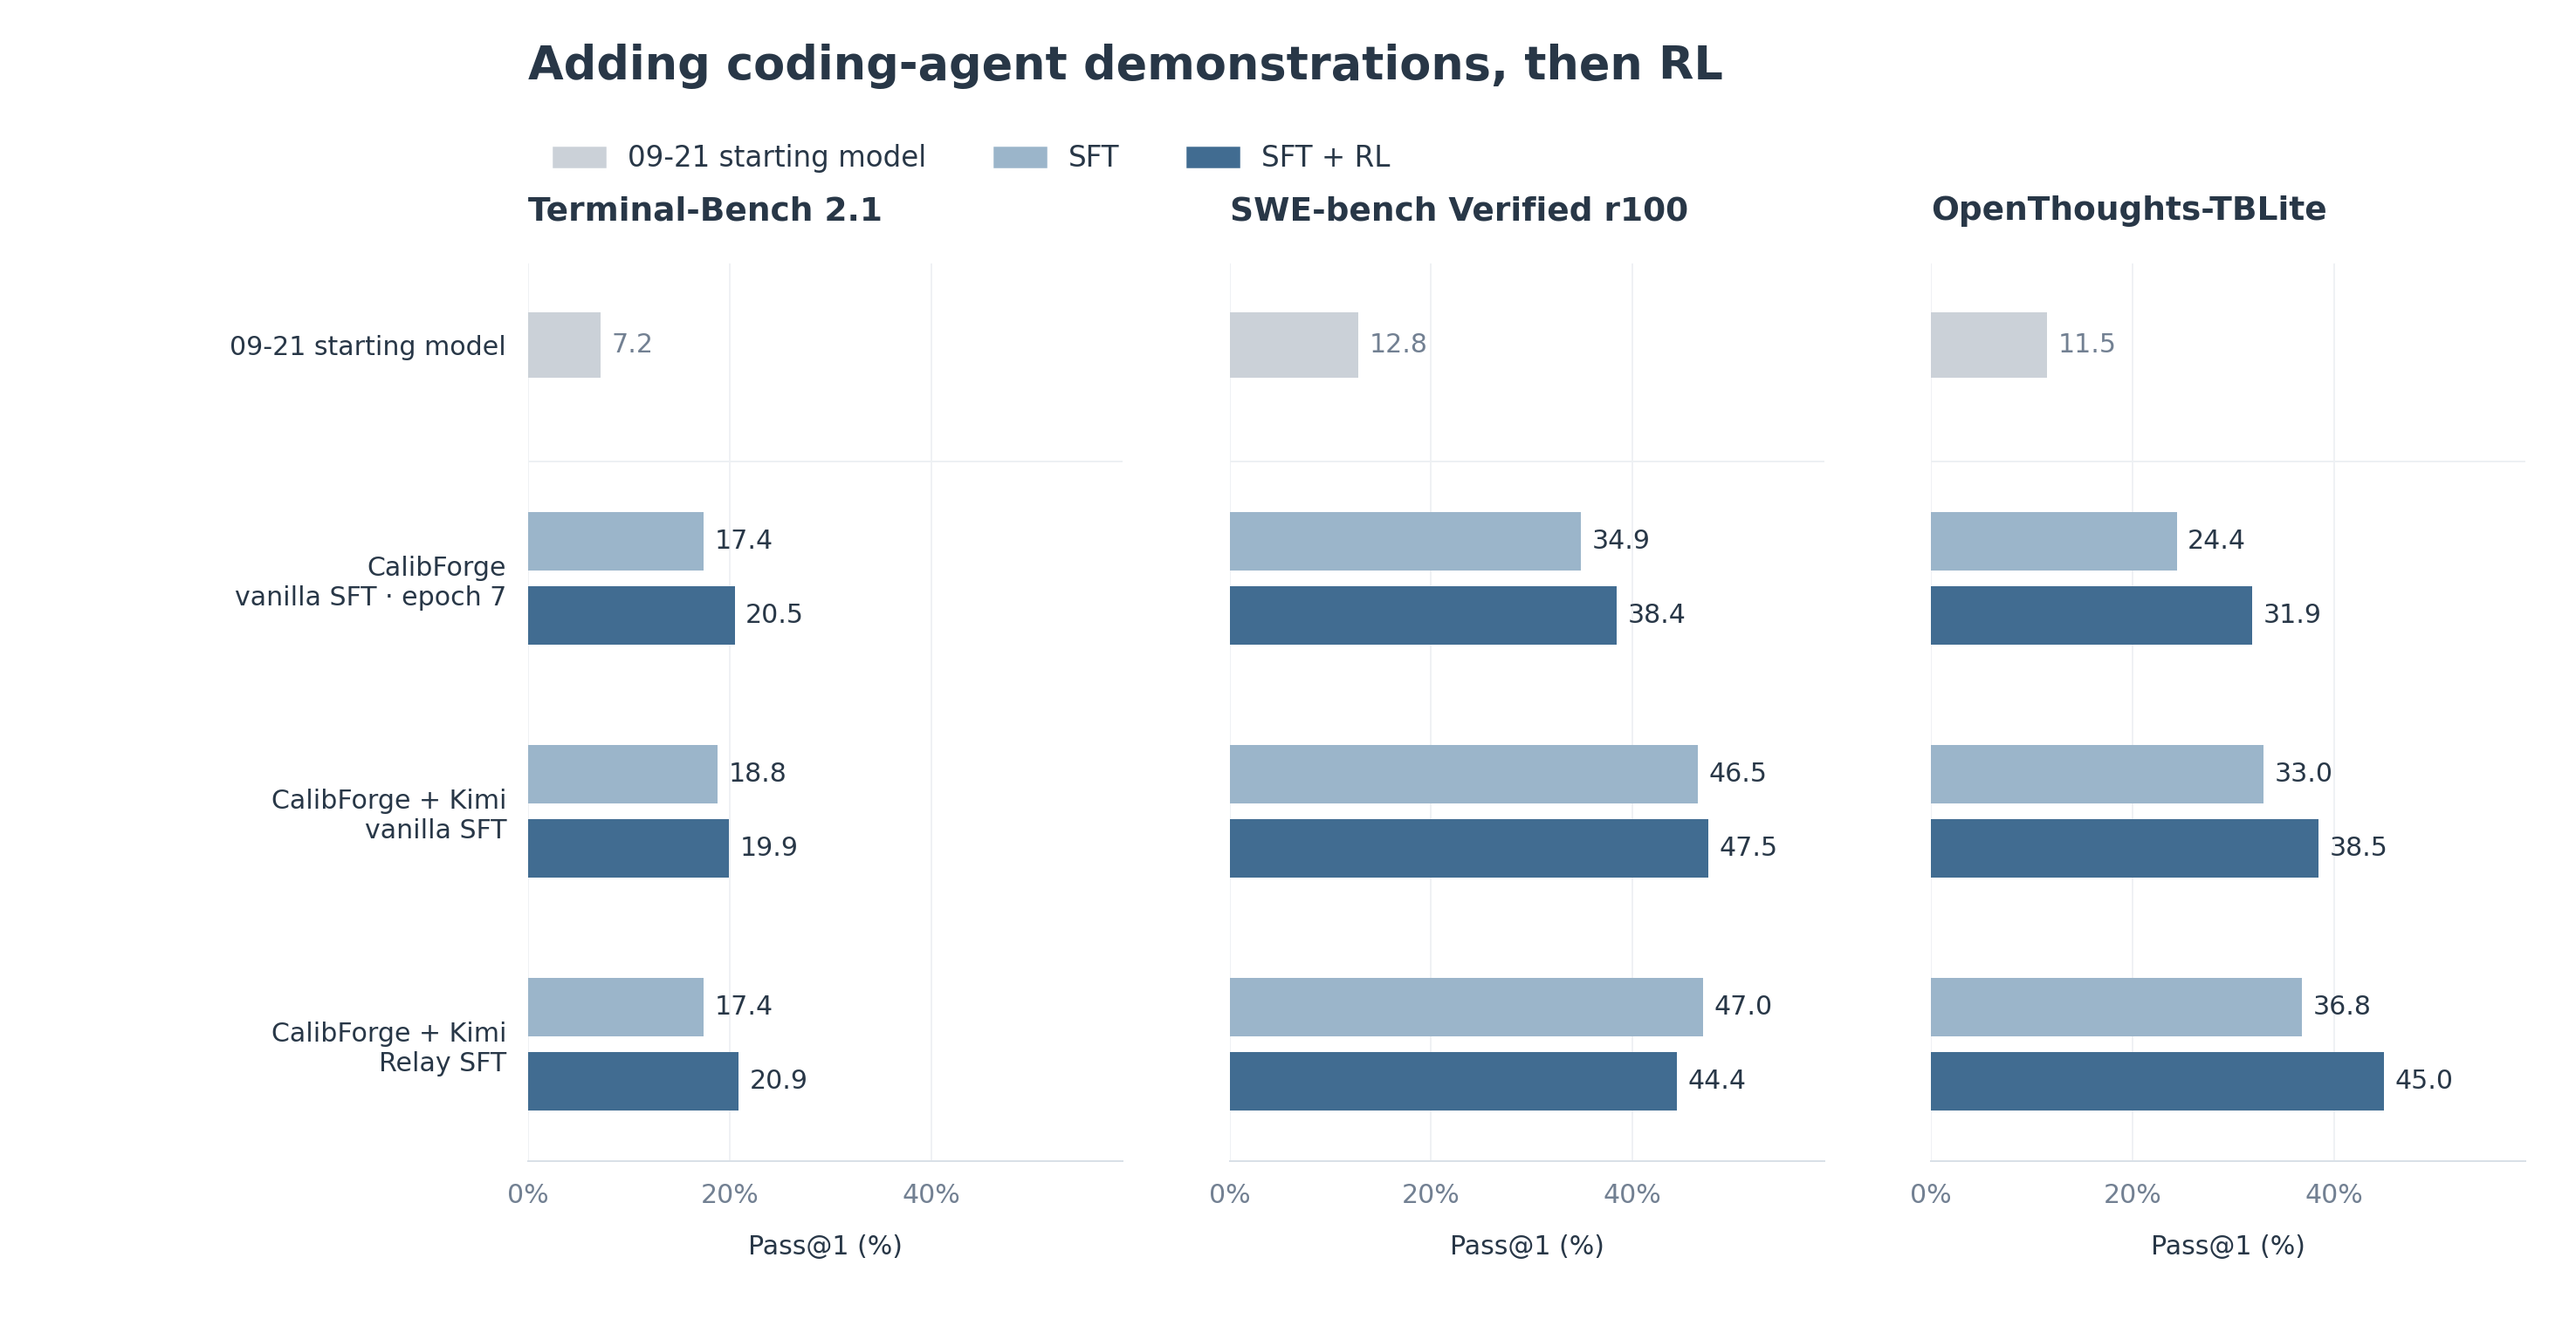
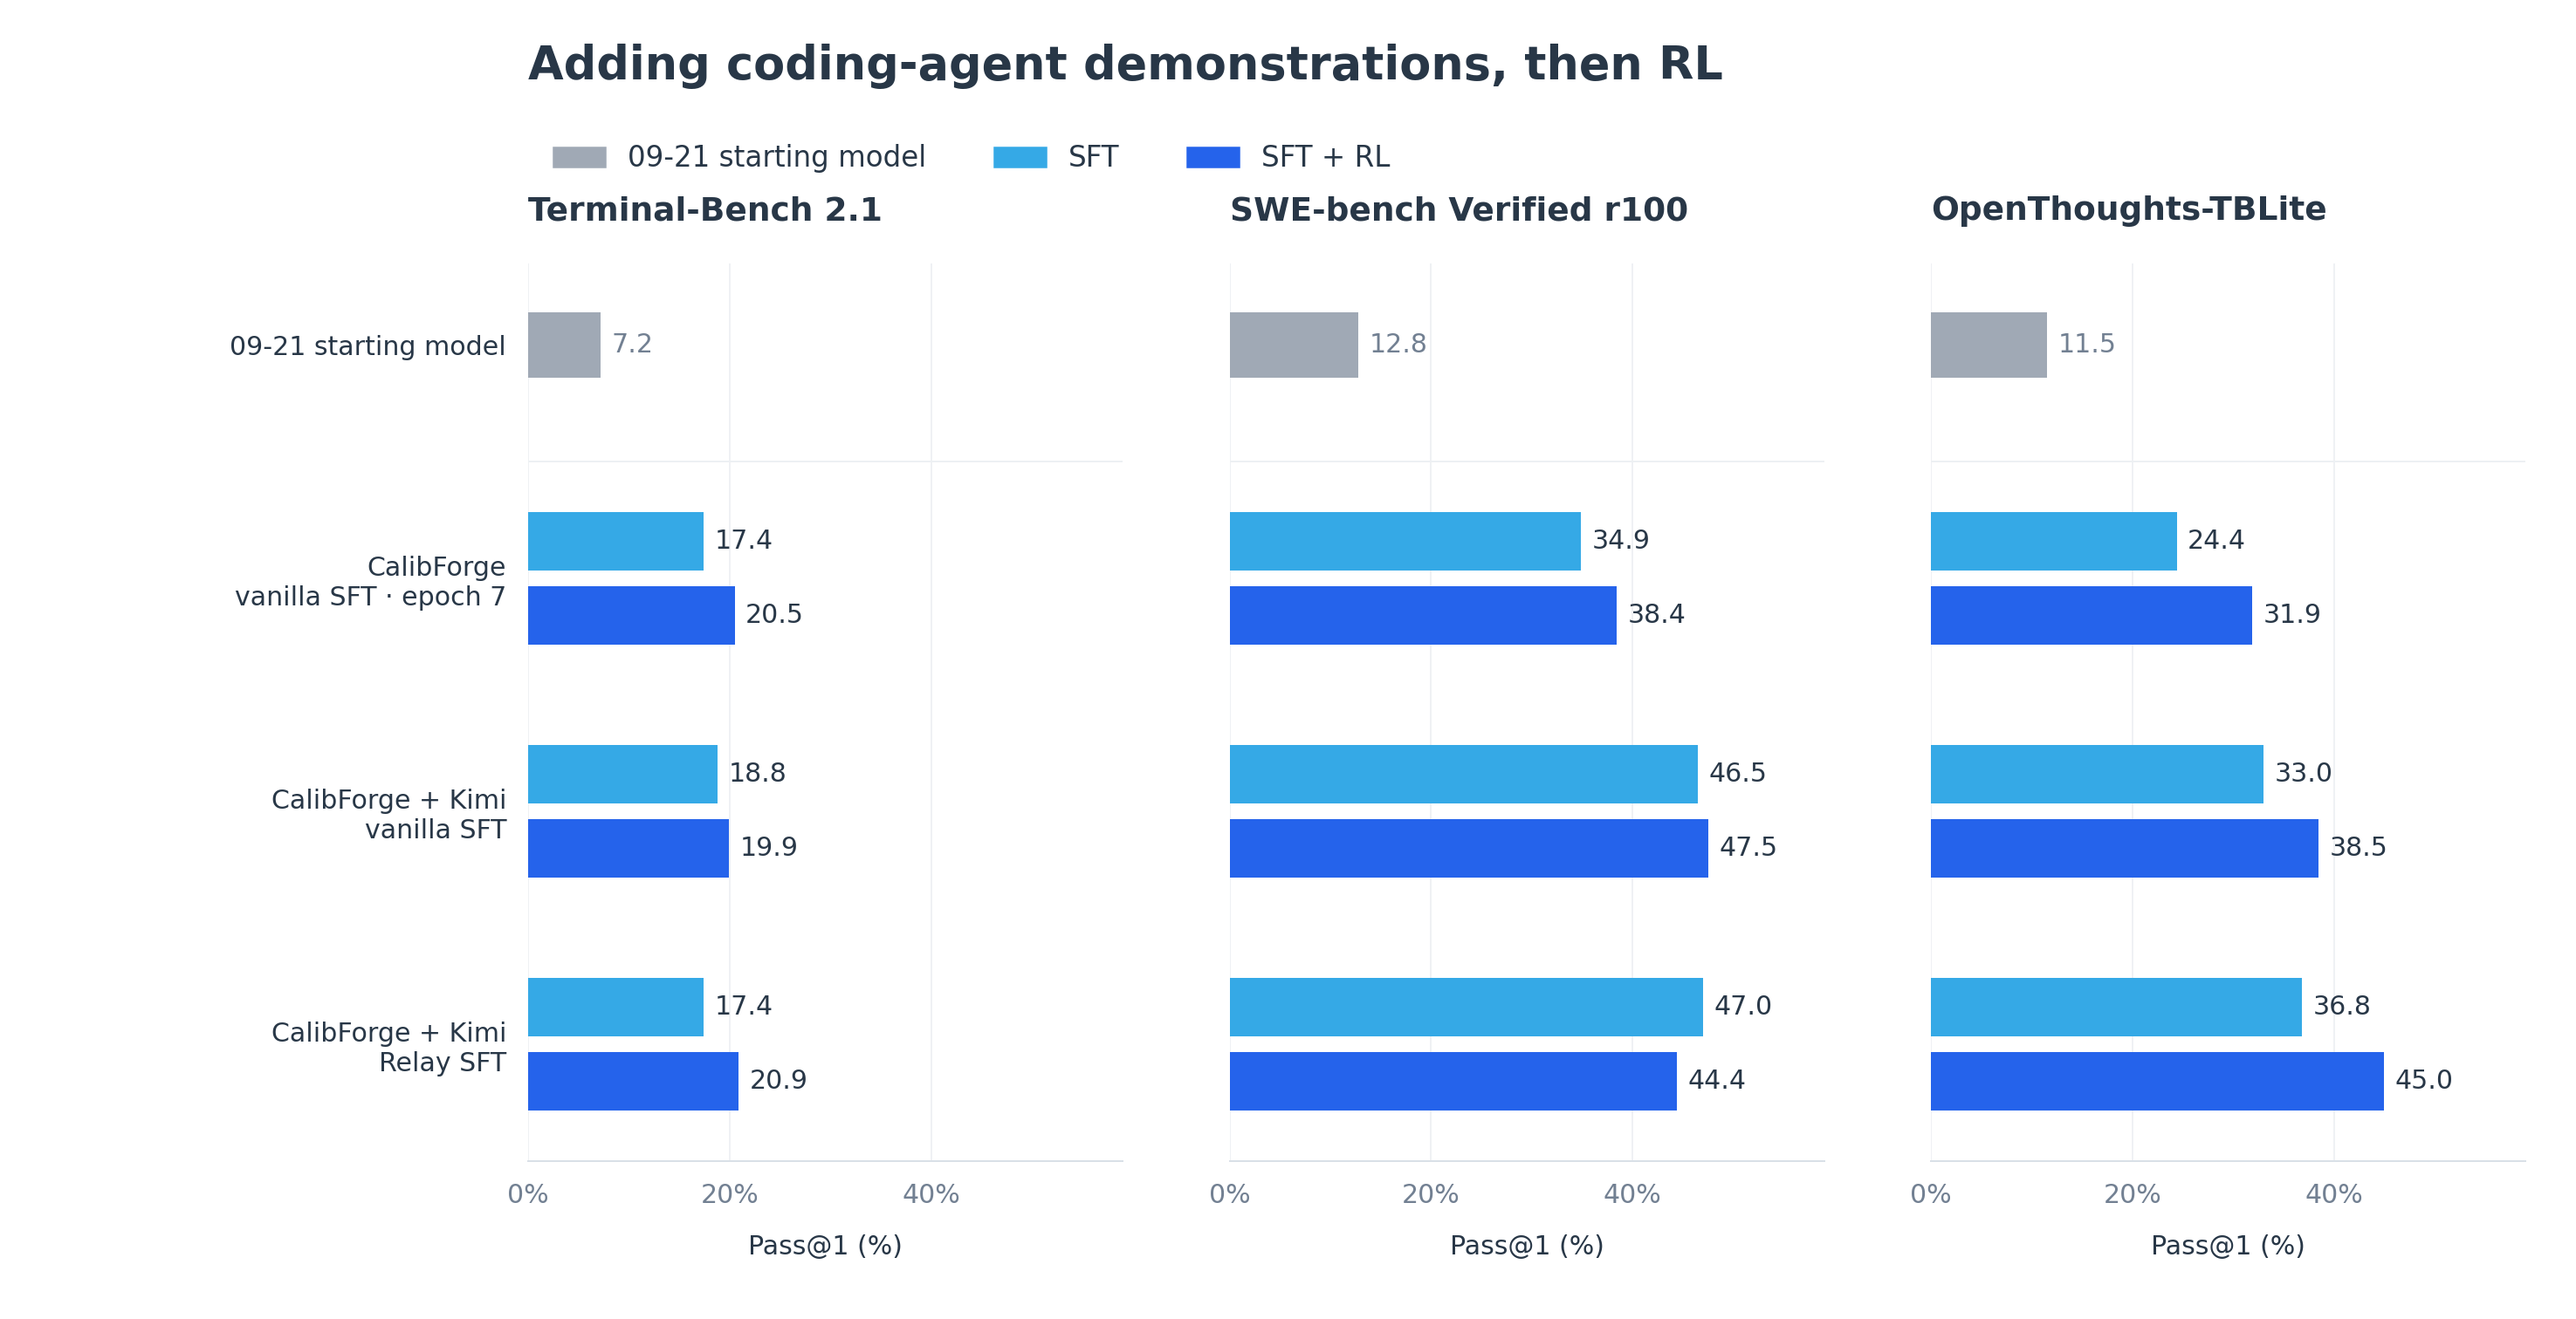
Use vivid blue and cyan in Snowball result charts

diff --git a/scripts/render_snowball_results.py b/scripts/render_snowball_results.py
@@ -1,4 +1,4 @@
-"""Render the published Snowball point estimates with a restrained blue theme.
+"""Render the published Snowball point estimates with clear blue accents.
 
 Values reproduce the existing figures, not a new evaluation or aggregation.
 Run from any directory with matplotlib and numpy installed.
@@ -15,7 +15,7 @@ import numpy as np
 
 
 OUT = Path(__file__).resolve().parents[1] / "assets/img/snowball"
-BASE, LIGHT, BLUE = "#cbd1d8", "#9bb5ca", "#416c91"
+BASE, LIGHT, BLUE = "#a0a9b5", "#35a9e6", "#2563eb"
 INK, MUTED, GRID = "#283747", "#728092", "#edf0f3"
 plt.rcParams.update({
     "font.family": "DejaVu Sans",
@@ -67,7 +67,7 @@ def early_rl():
     ax.legend(loc="lower left", bbox_to_anchor=(0, 1.04), ncol=3,
               frameon=False, fontsize=10, handlelength=1.5, columnspacing=1.6)
     fig.text(.045, .065, "Same 191 held-out R2E-Gym tasks, eight samples per task.\n"
-             "The two blue shades denote different experimental RL checkpoints.",
+             "Blue and cyan denote different experimental RL checkpoints.",
              fontsize=9, color=MUTED, linespacing=1.5)
     save(fig, "early-rl-labeled")
 

diff --git a/_posts/2026-10-21-turning-snowball-into-a-coding-agent.md b/_posts/2026-10-21-turning-snowball-into-a-coding-agent.md
@@ -141,7 +141,7 @@ In the first held-out evaluation, RL nearly doubled pass@1 from 8.7% to 16.6%. B
 
 
 <figure class="research-figure">
-<a href="{{ '/assets/img/snowball/early-rl-labeled.png?v=clean-blue' | relative_url }}"><img src="{{ '/assets/img/snowball/early-rl-labeled.png?v=clean-blue' | relative_url }}" alt="Starting model and two RL checkpoints, labeled by their single-attempt success and task coverage." width="1728" height="880" loading="lazy"></a>
+<a href="{{ '/assets/img/snowball/early-rl-labeled.png?v=crisp-blue' | relative_url }}"><img src="{{ '/assets/img/snowball/early-rl-labeled.png?v=crisp-blue' | relative_url }}" alt="Starting model and two RL checkpoints, labeled by their single-attempt success and task coverage." width="1728" height="880" loading="lazy"></a>
 <figcaption>The same 191 held-out tasks, eight attempts each. Both RL recipes also solved tasks the base missed in all eight attempts; this does not mean the base could never solve them.</figcaption>
 </figure>
 
@@ -221,7 +221,7 @@ On the older Stage-3 checkpoint, I tried additional SFT on a mixture of OpenThou
 SFT raised SWE-bench from 14.5% to 24.1%; another 30 GRPO updates brought it to **30.7%**. RL directly from the starting checkpoint scored 25.0% in its earlier evaluation. SFT could provide a better starting policy, and RL could improve it further. Terminal-Bench still showed no improvement.
 
 <figure class="research-figure">
-<a href="{{ '/assets/img/snowball/ota-sft-rl-swe.png?v=clean-label' | relative_url }}"><img src="{{ '/assets/img/snowball/ota-sft-rl-swe.png?v=clean-label' | relative_url }}" alt="SWE-bench Verified random-100 on the older Stage-3 checkpoint: starting model 14.5%, SFT 24.1%, RL only 25.0%, and SFT followed by RL 30.7%, with 95% Wilson intervals." width="2052" height="1007" loading="lazy"></a>
+<a href="{{ '/assets/img/snowball/ota-sft-rl-swe.png?v=crisp-blue' | relative_url }}"><img src="{{ '/assets/img/snowball/ota-sft-rl-swe.png?v=crisp-blue' | relative_url }}" alt="SWE-bench Verified random-100 on the older Stage-3 checkpoint: starting model 14.5%, SFT 24.1%, RL only 25.0%, and SFT followed by RL 30.7%, with 95% Wilson intervals." width="2052" height="1007" loading="lazy"></a>
 <figcaption>All rows use Eval Policy v0.1. The starting model, SFT, and SFT→RL results pool three evaluation runs; RL-alone is one earlier run at lower concurrency. Treat its comparison as approximate rather than a paired test. Lines show 95% intervals.</figcaption>
 </figure>
 
@@ -261,8 +261,8 @@ We probed the vanilla CalibForge epoch-7 model eight times per task and selected
 The RL runs used the same core recipe: batches of 64 tasks with eight attempts each, a learning rate of 5e-7, and a 64k context window. The figure compares the 09-21 starting model with each additional SFT recipe and its RL continuation. Vanilla denotes ordinary teacher-demonstration SFT.
 
 <figure class="research-figure">
-<a href="{{ '/assets/img/snowball/sft-rl-stages.png?v=clean-blue' | relative_url }}"><img src="{{ '/assets/img/snowball/sft-rl-stages.png?v=clean-blue' | relative_url }}" alt="Across three benchmarks, the 09-21 starting model is shown in gray, three additional SFT recipes in light blue, and each recipe followed by RL in dark blue. TBLite scores rise after RL in all three recipes, while SWE-bench changes are mixed." width="2951" height="1512" loading="lazy"></a>
-<figcaption>Pass@1 point estimates with Terminus-2. “Starting model” is the 09-21 general-SFT checkpoint. Dark blue bars follow 30 RL updates. Two evaluation repetitions per SFT/RL model, except three for the vanilla CalibForge SFT model. Scores use available scored attempts, so task coverage differs slightly. Paired uncertainty is discussed below. Results recorded October 27, 2026.</figcaption>
+<a href="{{ '/assets/img/snowball/sft-rl-stages.png?v=crisp-blue' | relative_url }}"><img src="{{ '/assets/img/snowball/sft-rl-stages.png?v=crisp-blue' | relative_url }}" alt="Across three benchmarks, the 09-21 starting model is shown in gray, three additional SFT recipes in cyan, and each recipe followed by RL in blue. TBLite scores rise after RL in all three recipes, while SWE-bench changes are mixed." width="2951" height="1512" loading="lazy"></a>
+<figcaption>Pass@1 point estimates with Terminus-2. “Starting model” is the 09-21 general-SFT checkpoint. Blue bars follow 30 RL updates. Two evaluation repetitions per SFT/RL model, except three for the vanilla CalibForge SFT model. Scores use available scored attempts, so task coverage differs slightly. Paired uncertainty is discussed below. Results recorded October 27, 2026.</figcaption>
 </figure>
 
 The clearest pattern was on TBLite: scores rose after RL for all three starting policies. On tasks scored for both models, the gains were 6.5 points for vanilla CalibForge, 5.6 for vanilla plus Kimi, and 8.9 for Relay plus Kimi. Only the last gain had a paired 95% bootstrap interval entirely above zero, at [+0.6, +17.2] points. The other two intervals included zero. This is encouraging early evidence that RL can add to these SFT policies, rather than an established improvement for every recipe.
